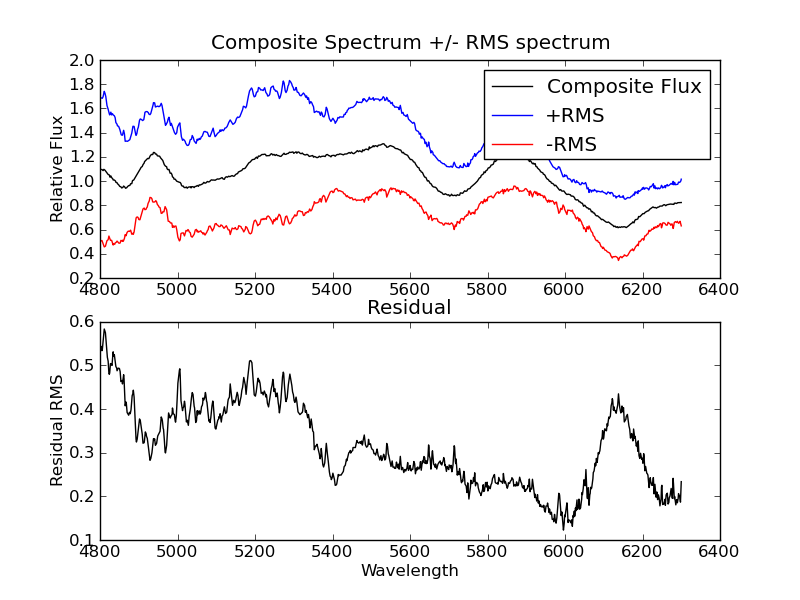
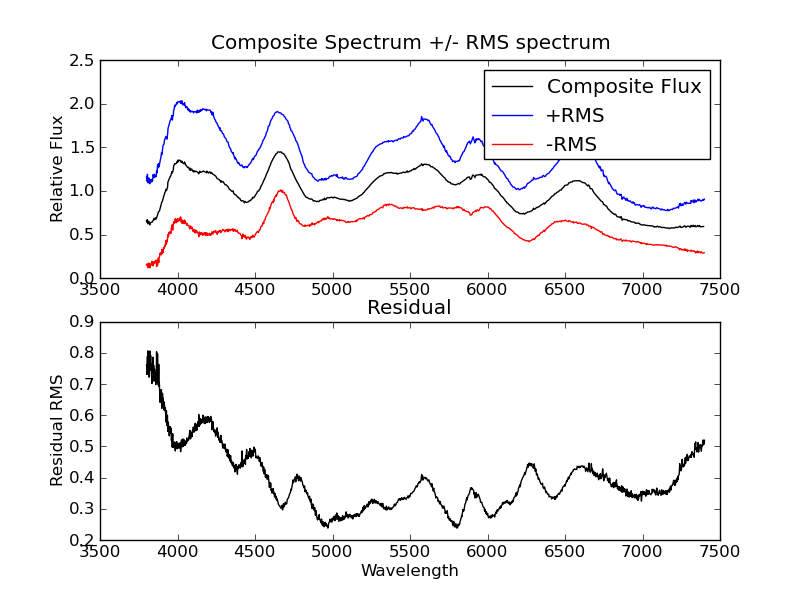
possibly added code and removes files outside of wanted range(ln 206)

diff --git a/personal/RyanNishimoto/wk4_carbon.py b/personal/RyanNishimoto/wk4_carbon.py
@@ -36,15 +36,14 @@ Things to work on/Known issues(wk3 code):
 """
 this function reads in a file (from an array of paths)
 and extracts the relevant data (Pathname, Wavelength and Flux),
-appending the folder/file.flm path and Wavelength/flux into 
-separate lists 'path' and 'data' respectively
+as well as keeping a counter of the number of spectra for a 
+particular SN
 """
-def get_data(f):
+def get_data(f,p,d,c,i):
 	try:
-		data.append(np.loadtxt(f))	#adds spectra data into array 
-		path.append(f[14:-4])		#adds SN path name into array
-		wave.append(data[i][:,0])
-		flux.append(data[i][:,1])
+		d.append(np.loadtxt(f))		#adds spectra data into array 
+		p.append(f[14:-4])		#adds SN path name into array
+		c[i] += 1			#number of spectra for particular SN
 	except ValueError:
 		junk.append(f)			#adds faulty files into array
 
@@ -55,25 +54,25 @@ SNe names and z values (among other stats) and appends
 relevent information (right now name and z value) into
 lists 'name' and 'z' respectively
 """
-def get_stats(s):				#reads in particular row from stat file
-	name.append(s[0])			#adds SN name into array
+def get_stats(s,n,z,t):				#reads in particular row from stat file
+	n.append(s[0])				#adds SN name into array
 	z.append(s[1])				#adds z-value into array
-
+	t.append(s[2])				#adds time of max light
 
 """
 this function takes a single spectra 'path' and 'data', 
 the lists 'name' and 'z', and de-redshifts the wavelength
 of this particular data 
 """
-def dez(data,path,name,z):
-	for i in range(len(name)):				#Goes through list of names
-		if name[i] in path:				#Current name is in path list
+def dez(d,p,n,z):
+	for i in range(len(n)):				#Goes through list of names
+		if n[i] in p:				#Current name is in path list
 			#print"redshift wavelengths:",(data[:,0])
 			#print "matched SN",name[i],"to",path
 			#print "z =",z[i]
 			#print "...de-redshifting..."			
 			for j in range(len(data)):		#Goes through each wavelength in single spectra
-				data[j,0] /= 1+z[i]		#De-redshifts the wavelength 
+				d[j,0] /= 1+z[i]		#De-redshifts the wavelength 
 			#print"de-redshifted values:",(data[:,0]),"\n"
 			break	
 
@@ -81,65 +80,85 @@ def dez(data,path,name,z):
 #Reads in files and stats 
 #Initializes variables
 
-carbon = np.loadtxt('wk4_carbon.txt',dtype = str)
+carbon_pos = np.loadtxt('files/wk4_carbon_neg.txt',dtype = str)
+carbon_neg = np.loadtxt('files/wk4_carbon_neg.txt',dtype = str)
 
 files = glob.glob ('../../data/cfa/*/*.flm')	#array of files
 stats = np.genfromtxt('../../data/cfa/cfasnIa_param.dat',dtype = None)	#stats of SNe
-name = []	#sn name from stats
-z = []		#z from stats
+ages = np.genfromtxt('../../data/cfa/cfasnIa_mjdspec.dat',dtype = None)	#age of each spectra file
 
-data = []	#holds spectra data from files
+
+name_pos = []	#sn name from stats
+name_neg = []
+
+z_pos = []	#z from stats
+z_neg = []
+
+tmax_pos = []	#time of maxiumum light from stats
+tmax_neg = []
+
+data_pos = []	#holds spectra data from files
+data_neg = []
+
+count_pos = [0]*len(carbon_pos)		#array to hold number of spectra per SN
+count_neg = [0]*len(carbon_neg)
+
 junk = []	#holds junk files 
 
-path = []	#holds pathname of files
-wave = []	#holds wavelengths			
-flux = []	#holds flux
+path_pos = []	#holds pathname of files
+path_neg = []
 
-num = len(carbon)		#measure num spectra
-wave_min = 0	
-wave_max = 10000
+num_pos = len(carbon_neg)		#measure num spectra
+num_neg = len(carbon_neg)
+
+wave_min = 3800
+wave_max = 7400
 
 
 ###########################
 print "===================="
 print "There are",len(files),"files to read"
 print "There are",len(stats),"Supernovae with stats"
-print "There are",len(carbon),"Carbon positive Supernovae we want"
+print "There are",len(carbon_pos),"Carbon positive (CP) Supernovae"
+print "There are",len(carbon_neg),"Carbon negative (CN) Supernovae"
 print "===================="
 print "reading in data..."
 print "checking for corrupt files..."
 ###########################
-count = [0]*len(carbon)
+
 
 #for each file, find the matching SN, record the number of spectra for that SN, and extract
 #Wavelength/Flux for each one
 for file in files:
-	for i in range(len(carbon)):
-		if carbon[i] in file:
-			try:
-				#print "adding",carbon[i],"data:\n",file[14:-4]
-				data.append(np.loadtxt(file))	#adds spectra data into array 
-				path.append(file[14:-4])		#adds SN path name into array
-				count[i] += 1
-			except ValueError:
-				#print "poop file",file
-				junk.append(file)			#adds faulty files into array
+	for i in range(len(carbon_pos)):
+		if carbon_pos[i] in file:
+			get_data(file,path_pos,data_pos,count_pos,i)
 
 print "\nsearch complete"		
 print "===================="
-print "found",len(data),"files to read"
+print "found",len(data_pos),"CP files to read"
+print "found",len(data_neg),"CN files to read"
 print "found",len(junk),"corrupt files"
 print "===================="
 print "file breakdown"
 print "===================="
-for i in range(len(carbon)):
-	print carbon[i],"has",count[i],"files"
+for i in range(len(carbon_pos)):
+	print "CP sn",carbon_pos[i],"has",count_pos[i],"files"
+
+count_pos = [0]*len(carbon_pos)		#array to hold number of spectra per SN
+count_neg = [0]*len(carbon_neg)
+
+#for i in range(len(carbon_neg)):
+	#print "CN sn",carbon_neg[i],"has",count_neg[i],"files"
 print "\ntrimming the fat...(removing SNe with no files)"
+
+
+
 
 carbon_new = []
 count_new = []
-for i in range(len(count)):
-	if (count[i] != 0):
+for i in range(len(count_pos)):
+	if (count_pos[i] != 0):
 		carbon_new.append(carbon[i])
 		count_new.append(count[i])
 
@@ -148,8 +167,7 @@ print "searching for relevant SNe statistics...\n"
 for stat in stats:
 	for i in range(len(carbon_new)):
 		if carbon_new[i] in stat[0]:
-			print carbon_new[i],"=",stat[0],"with z =",stat[1]
-			z.append(stat[1])
+			get_stats(stat,name_pos,z_pos,tmax_pos)
 
 
 
@@ -165,25 +183,30 @@ path		length 211	contains path to data
 
 """
 #de-redshifting data
-for i in range(len(data)):
+for i in range(len(data_pos)):
 	
-	dez(data[i],path[i],carbon_new,z)
+	dez(data_pos[i],path_pos[i],carbon_new,z_pos)
 	
 
 
-num = len(data)
-print "\ncalculating min/max from:",wave_min,wave_max
-print "===================="
+num = len(data_pos)
+
+#this code will determine the data to take based off of the the given ranges
+print "\nfinding spectra in range:",wave_min,wave_max
+
+delete = []
 for i in range(num):
-	#print "waves #",i
-	if data[i][0][0] > wave_min:
-		#print data[i][0][0],">",wave_min,"\n-->","new min = ",data[i][0][0]
-		wave_min = int(data[i][0][0])
-	if data[i][-1][0] < wave_max:
-		#print data[i][-1][0],"<",wave_max,"\n-->","new max = ",data[i][-1][0]
-		wave_max = int(data[i][-1][0])
+	#print "\nwaves #",i,":",data_pos[i][:,0]
+	#print "from path:",path_pos[i]
+	if data_pos[i][0][0] > wave_min or data_pos[i][-1][0] < wave_max:
+		delete.append(i)
+		#print "\nwaves #",i,":",data_pos[i][:,0]
+		#print "from path:",path_pos[i],"does not make the cut"
 
-
+for i in range(len(delete)):
+	print "remove",data_pos[delete[len(delete)-1-i]]
+	del data_pos[delete[len(delete)-1-i]]
+	print data_pos[delete[len(delete)-1-i]]
 
 print "\nhighest minimum:",wave_min
 print "lowest maximum:",wave_max
@@ -205,8 +228,8 @@ fit = []
 fit_flux = []
 
 
-for i in range(num):
-	spline = intp.splrep(data[i][:,0],data[i][:,1])
+for i in range(len(data_pos)):
+	spline = intp.splrep(data_pos[i][:,0],data_pos[i][:,1])
 	curr_flux = intp.splev(wavelengths, spline)
 	curr_flux /= np.median(curr_flux)
 	fit.append([wavelengths,curr_flux])
@@ -218,13 +241,14 @@ avg_flux = sum(fit_flux)/num
 
 res_flux = []
 #residual and RMS 
-for i in range(num):
+for i in range(len(data_pos)):
 	res_flux.append(fit_flux[i]-avg_flux)
 
 rms = np.sqrt(np.mean(np.square(res_flux),axis = 0))
 pos = avg_flux + rms
 neg = avg_flux - rms
 scatter = np.divide(rms,avg_flux)
+
 
 ############################
 print "===================="
@@ -249,6 +273,35 @@ bottom.plot(wavelengths,scatter, 'k')
 plt.title('Residual')
 plt.xlabel('Wavelength')
 plt.ylabel('Residual RMS')
-plt.savefig('Carbon.png')
+plt.savefig('plots/Carbon_pos.png')
 plt.show()
 
+"""#labeling plot1 carbon +
+top = fig.add_subplot(4,1,1)
+plot1 = top.plot(wavelengths,avg_flux,'k')
+plot2 = top.plot(wavelengths,pos,'b')
+plot3 = top.plot(wavelengths,neg,'r')
+plt.title('Composite Spectrum: Carbon +')
+plt.ylabel('Relative Flux')
+plt.legend([plot1,plot2,plot3],('Carbon +','+ RMS','- RMS'),'upper right',numpoints=1)
+
+#labeling plot2 carbon -
+mid = fig.add_subplot(4,1,2)
+#for carbon -, need a different avg_flux, pos, neg
+plot4 = mid.plot(wavelengths,avg_flux,'k')
+plot5 = mid.plot(wavelengths,pos,'b')
+plot6 = mid.plot(wavelengths,neg,'r')
+plt.title('Composite Spectrum: Carbon -')
+plt.ylabel('Relative Flux')
+plt.legend([plot4,plot5,plot6],('Carbon - ','+ RMS','- RMS'),'upper right',numpoints=1)
+
+#labeling plot3 residual
+bottom = fig.add_subplot(4,1,4)
+bottom.plot(wavelengths,scatter, 'k')
+plt.title('Residual')
+plt.xlabel('Wavelength')
+plt.ylabel('Residual RMS')
+
+plt.savefig('Composite_Spectra.png')
+plt.show()
+"""

diff --git a/personal/RyanNishimoto/wk3_comp.py b/personal/RyanNishimoto/wk3_comp.py
@@ -153,7 +153,7 @@ res_flux = []
 for i in range(num):
 	res_flux.append(fit_flux[i]-avg_flux)
 
-rms = np.sqrt(np.mean(np.power(res_flux,2)))
+rms = np.sqrt(np.mean(np.square(res_flux),axis = 0))
 pos = avg_flux + rms
 neg = avg_flux - rms
 scatter = np.divide(rms,avg_flux)
